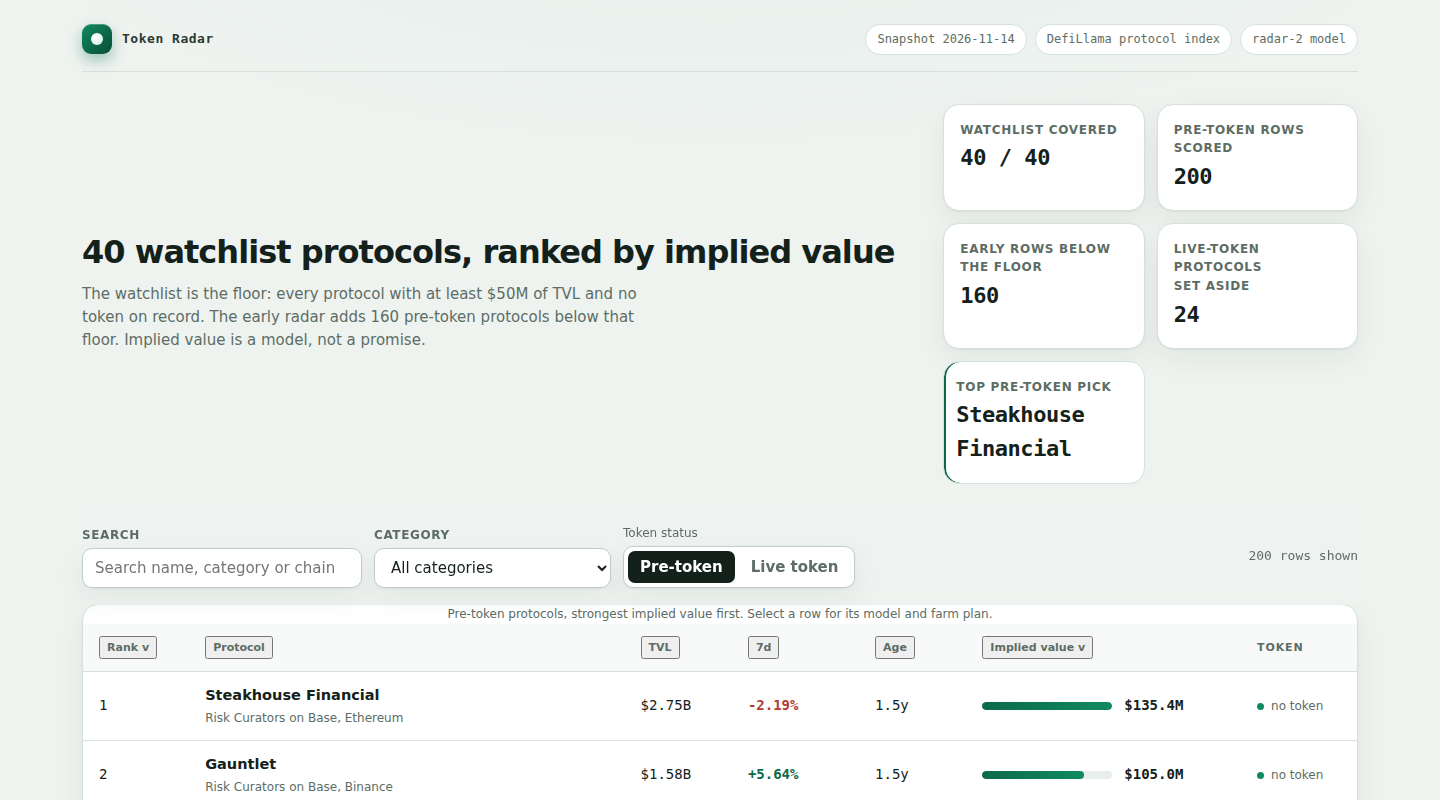
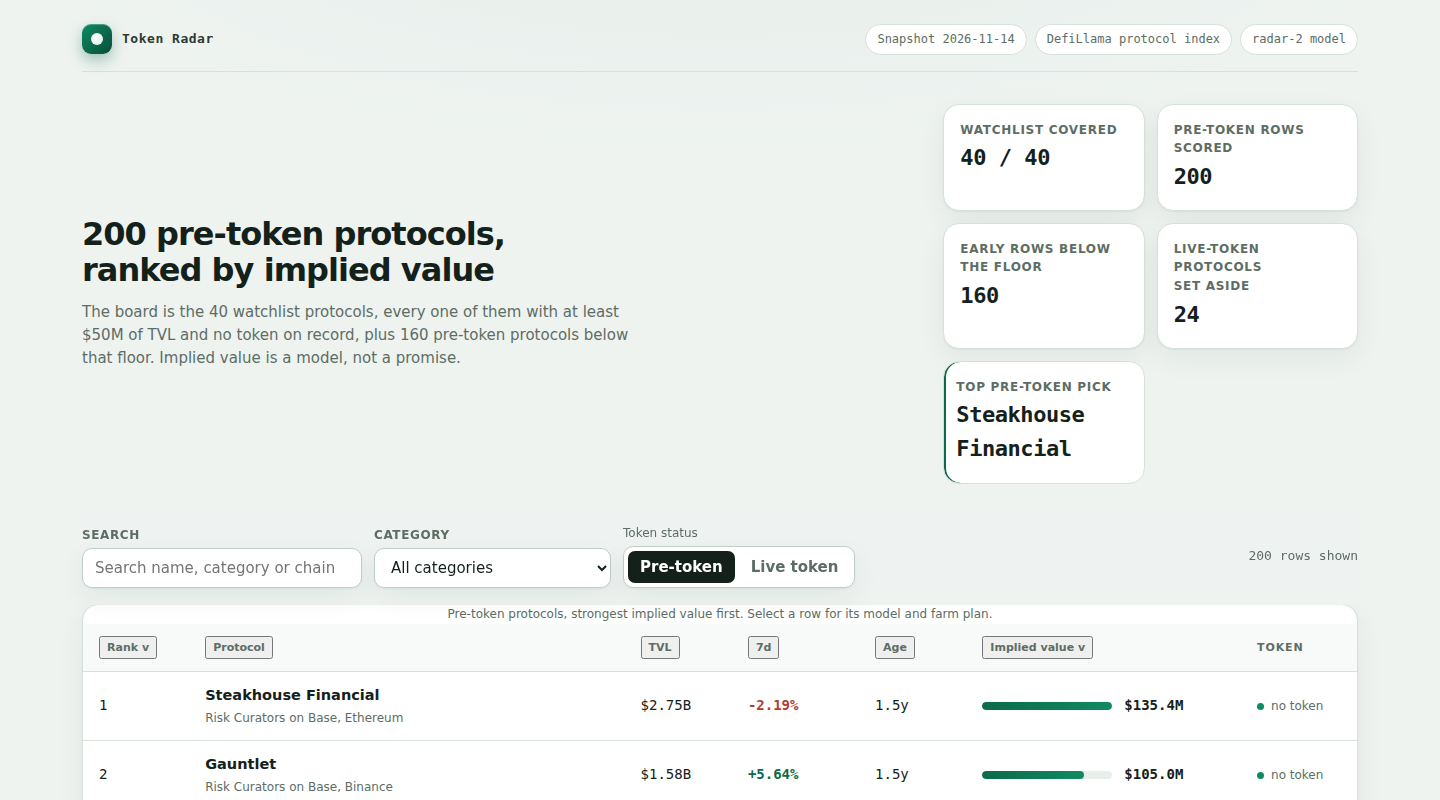
dashboard: headline states the 200-row board, not the 40-row watchlist
The hero said '40 watchlist protocols' above a table defaulting to all
200 pre-token rows, so the page contradicted itself at a glance. The
headline now names the board size and the lede reconciles 40 + 160.
Screenshots regenerated from headless Chrome after the change.

Changed region(s): [[0.0312, 0.2812, 0.625, 0.4688]]

diff --git a/dashboard/app.js b/dashboard/app.js
@@ -127,8 +127,8 @@
   function lede() {
     return el('section', { class: 'lede' },
       el('div', null,
-        el('h1', { text: DATA.watchlist_size + ' watchlist protocols, ranked by implied value' }),
-        el('p', { text: 'The watchlist is the floor: every protocol with at least $' + Math.round(DATA.floor_usd / 1e6) + 'M of TVL and no token on record. The early radar adds ' + DATA.early_size + ' pre-token protocols below that floor. Implied value is a model, not a promise.' })
+        el('h1', { text: DATA.board_size + ' pre-token protocols, ranked by implied value' }),
+        el('p', { text: 'The board is the ' + DATA.watchlist_size + ' watchlist protocols, every one of them with at least $' + Math.round(DATA.floor_usd / 1e6) + 'M of TVL and no token on record, plus ' + DATA.early_size + ' pre-token protocols below that floor. Implied value is a model, not a promise.' })
       ),
       el('div', { class: 'facts' },
         el('div', { class: 'fact' }, el('span', { text: 'Watchlist covered' }), el('b', { text: DATA.watchlist_size + ' / ' + DATA.watchlist_size })),
